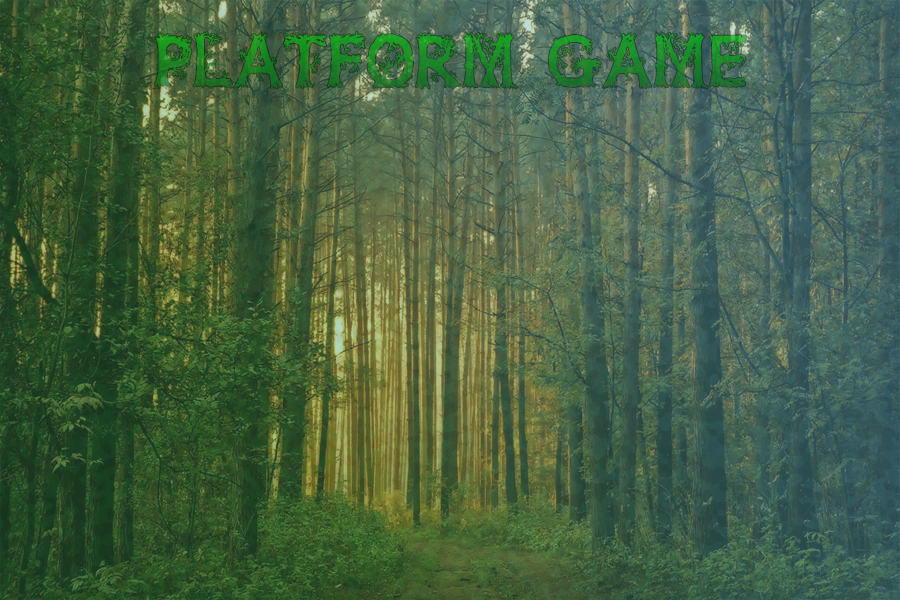
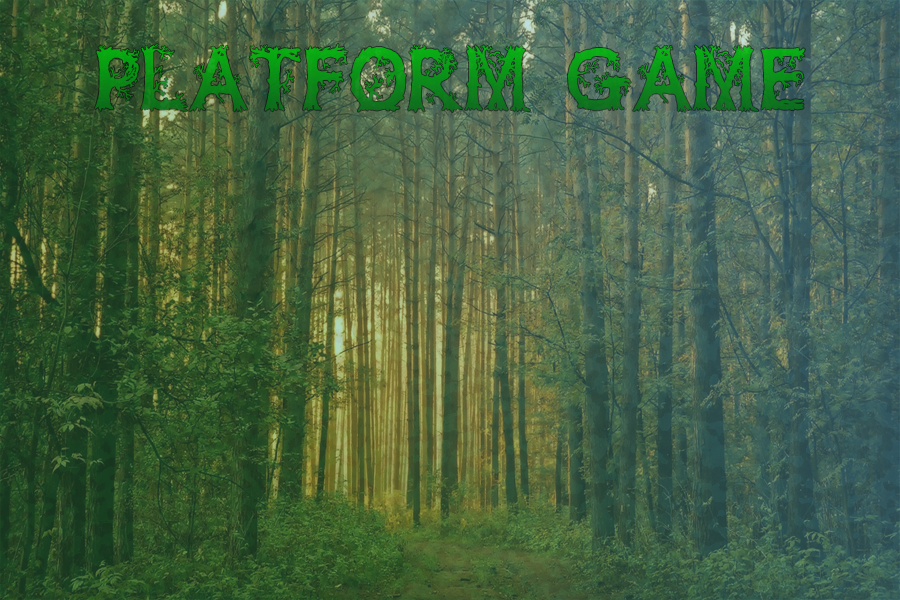
Updated MainMenu. More menues is added, and some is clickable

Changed region(s): [[0.0933, 0.03, 0.9022, 0.21]]

diff --git a/src/states/MainMenuState.java b/src/states/MainMenuState.java
@@ -11,12 +11,31 @@ import org.newdawn.slick.state.StateBasedGame;
 public class MainMenuState extends BasicGameState {
 	
 	private int stateID = -1;
+	private final String PATH = "res/MainMenu/";
+	
 	private Image background = null;
 	private Image startGame = null;
 	private Image startGameHighlighted = null;
+	private Image endGame = null;
+	private Image endGameHighlighted = null;
+	private Image loadGame = null;
+	private Image loadGameHighlighted = null;
+	private Image options = null;
+	private Image optionsHighlighted = null;
+	
 	private static int startMenuX = 230;
-	private static int startMenuY = 250;
+	private static int startMenuY = 150;
+	private static int optionsMenuX = 230;
+	private static int optionsMenuY = 350;
+	private static int loadGameMenuX = 230;
+	private static int loadGameMenuY = 250;
+	private static int endGameX = 230;
+	private static int endGameY = 450;
+	
 	private boolean insideStartGame = false;
+	private boolean insideOptionsMenu = false;
+	private boolean insideLoadGame = false;
+	private boolean insideEndGame = false;
 	
 	
 	public MainMenuState(int stateID){
@@ -24,43 +43,79 @@ public class MainMenuState extends BasicGameState {
 	}
 
 	@Override
-	public void init(GameContainer arg0, StateBasedGame arg1)
+	public void init(GameContainer gc, StateBasedGame sbg)
 			throws SlickException {
-		background = new Image("res/MainMenu/MainMenu.png");
-		startGame = new Image("res/MainMenu/Startgame.png");
-		startGameHighlighted = new Image("res/MainMenu/StartgameHighlighted.png");
+		background = new Image(PATH+"MainMenu.png");
+		startGame = new Image(PATH+"startgame.png");
+		startGameHighlighted = new Image(PATH+"StartgameHighlighted.png");
+		endGame = new Image(PATH+"endgame.png");
+		endGameHighlighted = new Image(PATH+"endgamehighlighted.png");
+		loadGame = new Image(PATH+"loadgame.png");
+		loadGameHighlighted = new Image(PATH+"loadgamehighlighted.png");
+		options = new Image(PATH+"options.png");
+		optionsHighlighted = new Image(PATH+"optionshighlighted.png");
+		
 		
 	}
 
 	@Override
-	public void render(GameContainer arg0, StateBasedGame arg1, Graphics arg2)
+	public void render(GameContainer gc, StateBasedGame sbg, Graphics g)
 			throws SlickException {
 		background.draw(0,0);
+		
 		if(insideStartGame){
 			startGameHighlighted.draw(startMenuX, startMenuY);
 		}
 		else{
 			startGame.draw(startMenuX,startMenuY);
-		}	
+		}
+		
+		if(insideEndGame){
+			endGameHighlighted.draw(endGameX,endGameY);
+		}
+		else{
+			endGame.draw(endGameX, endGameY);
+		}
+		
+		if(insideLoadGame){
+			loadGameHighlighted.draw(loadGameMenuX,loadGameMenuY);
+		}
+		else{
+			loadGame.draw(loadGameMenuX, loadGameMenuY);
+		}
+		
+		if(insideOptionsMenu){
+			optionsHighlighted.draw(optionsMenuX,optionsMenuY);
+		}
+		else{
+			options.draw(optionsMenuX,optionsMenuY);
+		}
+		
+		
 	}
 
 	@Override
-	public void update(GameContainer arg0, StateBasedGame arg1, int arg2)
+	public void update(GameContainer gc, StateBasedGame sbg, int delta)
 			throws SlickException {
-		Input input = arg0.getInput();
+		Input input = gc.getInput();
 		int mouseX = input.getMouseX();
 		int mouseY = input.getMouseY();
 		
-		if((mouseX >= startMenuX && mouseX <= startMenuX + startGame.getWidth()) &&
-	            (mouseY >= startMenuY && mouseY <= startMenuY + startGame.getHeight())){
-					insideStartGame = true;
-		}	
-		else{
-			insideStartGame = false;
-		}
+		insideStartGame = checkMouse(mouseX, mouseY, startMenuX, startMenuY, startGame);
+		insideEndGame = checkMouse(mouseX, mouseY, endGameX, endGameY, endGame);
+		insideLoadGame = checkMouse(mouseX, mouseY, loadGameMenuX, loadGameMenuY, loadGame);
+		insideOptionsMenu = checkMouse(mouseX, mouseY, optionsMenuX, optionsMenuY, options);
 			
 		if(input.isMouseButtonDown(Input.MOUSE_LEFT_BUTTON) && insideStartGame){
-				arg1.enterState(GameApp.PLAYSTATE);
+				sbg.enterState(GameApp.PLAYSTATE);
+		}
+		
+		if(input.isMouseButtonDown(Input.MOUSE_LEFT_BUTTON) && insideOptionsMenu){
+			sbg.enterState(GameApp.OPTIONSSTATE);
+		}
+		
+		if(input.isMouseButtonDown(Input.MOUSE_LEFT_BUTTON) && insideEndGame){
+			gc.exit();
 		}
 	}
 
@@ -68,5 +123,14 @@ public class MainMenuState extends BasicGameState {
 	public int getID() {
 		return this.stateID;
 	}
-
+	
+	public boolean checkMouse(int mouseX, int mouseY, int menuX, int menuY, Image image){
+		if((mouseX >= menuX && mouseX <= menuX + image.getWidth()) &&
+	            (mouseY >= menuY && mouseY <= menuY + image.getHeight())){
+					return true;
+		}
+		else{
+			return false;
+		}
+	}
 }

diff --git a/src/states/GameApp.java b/src/states/GameApp.java
@@ -8,6 +8,8 @@ import org.newdawn.slick.state.StateBasedGame;
 public class GameApp extends StateBasedGame{
 	public static final int MAINMENUSTATE = 1;
 	public static final int PLAYSTATE = 0;
+	public static final int OPTIONSSTATE = 2;
+	
 	private static String gamename = "The Game";
 	
 	public GameApp(String gamename) {
@@ -19,6 +21,7 @@ public class GameApp extends StateBasedGame{
 	public void initStatesList(GameContainer gc) throws SlickException {
 		this.addState(new MainMenuState(MAINMENUSTATE));
 		this.addState(new PlayState(PLAYSTATE));
+		this.addState(new OptionsState(OPTIONSSTATE));
 		this.getState(PLAYSTATE).init(gc, this);
 		this.enterState(MAINMENUSTATE);
 	}
